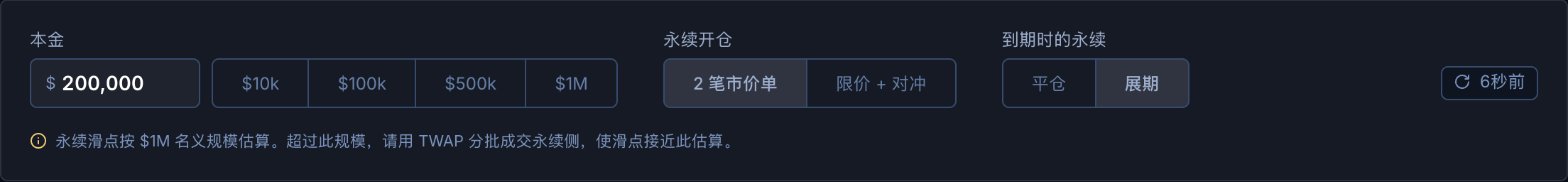
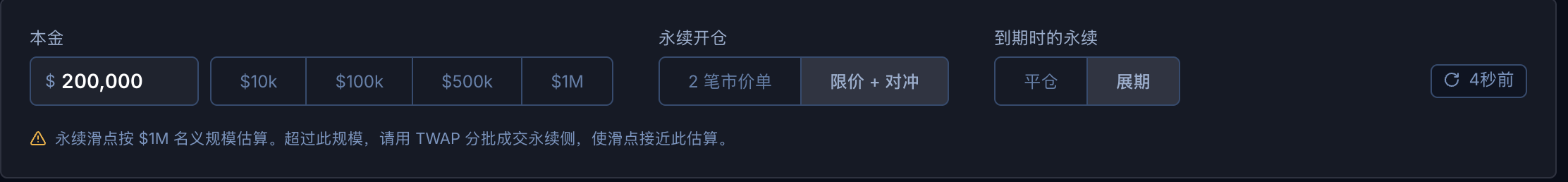
Release notes: Hubert's changes, the 1.7.7 size note, today's quotes and guide shots

diff --git a/CHANGELOG.md b/CHANGELOG.md
@@ -21,7 +21,7 @@ Opportunities sizes every card by the capital you put in. Every screen can show 
 - **Fixed Rate Pairs pairs positions by venue at any date.** Each card pairs your perps and Boros
   positions by venue and side, at any Boros date. After a half roll, the new date gets its card and
   the old Boros position goes to Ungrouped. A position on the wrong side shows a `Wrong side` tag at any date,
-  and its row has a faint red tint. A USDC perp shows `no Boros hedge`: Boros tracks the USDT
+  and its row has a faint red tint. A USDC perp shows `No Boros hedge`: Boros tracks the USDT
   perp's funding, not the USDC one's.
 - **After a half roll, the other Boros position opens at the new date.** Before, a card refused to open a
   Boros position while the venue still held one at the old date. Now it opens, and the Boros ticket
@@ -33,7 +33,7 @@ Opportunities sizes every card by the capital you put in. Every screen can show 
   live on the terminal, so a new browser keeps them. The first load moves the exclusions your
   browser saved to the terminal.
 - **A blocked open says why.** An open that cannot go is a grey button. Its hover gives the
-  reason, for example "Close the Wrong side Gate LONG at 30 Oct to open here". On Funding Bundles,
+  reason, for example "Close the Gate Long tagged "Wrong side" (30 Oct) to open here." On Funding Bundles,
   Open more no longer opens into a Boros position that you hold the wrong way.
 - **Current APR counts hedged pairs only.** The asset card's Current APR no longer counts a
   Boros position whose perps moved to another pair, nor its margin. A `Wrong side` position is left out
@@ -52,8 +52,8 @@ Opportunities sizes every card by the capital you put in. Every screen can show 
 - **Opportunities sizes by capital.** The size box now sets Capital: the margin you post on all
   positions, which is what the APR is on. Each card finds the notional per position that uses exactly
   that capital, walks the Boros and perp books at that size, and shows it. The default is $200k
-  of capital. The Notional per leg mode is gone; a saved notional pick opens on your saved
-  capital, or on $200k. The presets now include $1M. The Custom button is gone: click the box and
+  of capital. The Notional per leg mode is gone, and a size saved in 1.7.7 does not carry over:
+  the box opens on $200k once, then keeps your pick. The presets now include $1M. The Custom button is gone: click the box and
   type any amount, or pick a preset. Open this strategy fills the ticket at the
   card's own notional. Above $1M per leg, the perp slippage assumes $1M orders sent one after
   another, and a note under the size says so. Perp entry now starts on Limit + hedge, on
@@ -68,11 +68,22 @@ Opportunities sizes every card by the capital you put in. Every screen can show 
   open when CrossEx would refuse their hedge. The 1% between the two leaves room for the price to
   move between the steps. The check counts deals still working and orders resting on the same perp. A trade
   that shrinks a position always goes through. A market pair sends its Gate leg first.
+- **A locked rate reads pay or receive everywhere.** Pair rows, Funding Bundles and Close Boros
+  say "pay 8.74%" or "receive 7.12%" instead of a signed rate. Funding Bundles keeps its after-fee
+  rate, and its column says so: Net fixed APR.
+- **Long first on every screen.** Opportunities, Open this strategy, the Boros ticket and the perp
+  ticket all list the Long side or Market A first.
 - **Smaller things.** Every position row shows its venue icon. The open-only roll review names the
-  spread market it opens, for example "ETH Spread HL-GATE".
-  Perp and Boros legs carry one marker in every table. Small tags are easier to read, and a
-  yellow tag and its row use one yellow. Limit orders shows its count once and names CrossEx when
-  empty. Icons are the same set as the Boros app.
+  spread market it opens, for example "ETH Spread HL-GATE". The coin chip says `Not fully hedged`
+  when a Boros position is held but too small or the wrong way, and names the side only when it is
+  truly missing. Opportunities says how many pairs it leaves out at your capital. The Boros ticket
+  names its two markets Market A and Market B, and Open this strategy says which venue each step
+  trades on. Boros Long and Short chips say in their hover what the side pays and receives. The
+  Chinese uses one glossary on every screen. Boros and perp positions carry the same round tag in
+  every table: "CrossEx" on Fixed Rate Pairs and Ungrouped, "Perp" on Funding Bundles. A missing
+  position looks the same on both tabs. Small tags are easier to read, and a yellow tag and its row
+  use one yellow. Limit orders shows its count once and names CrossEx when empty. Icons are the same
+  set as the Boros app, including the check on the share image.
 
 Existing installs get this through the in-app Update.
 
